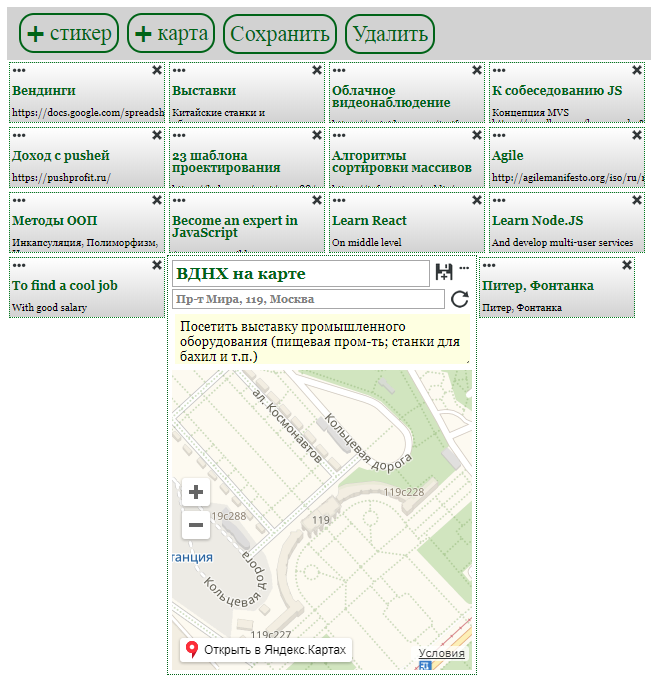
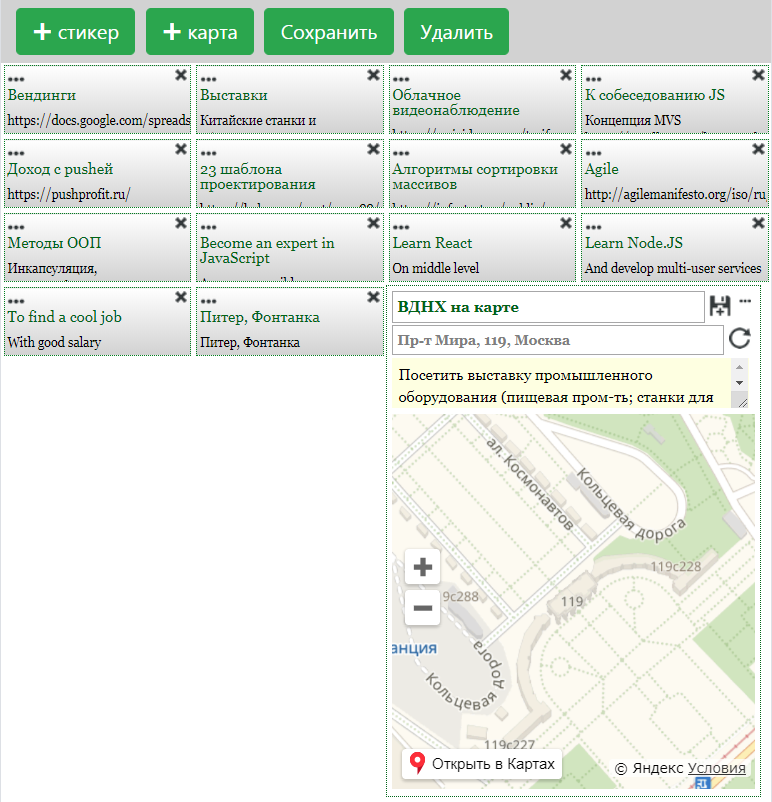
improved design of menu

diff --git a/dist/main.js b/dist/main.js
@@ -1,1 +1,1 @@
-!function(e){var t={};function n(i){if(t[i])return t[i].exports;var o=t[i]={i:i,l:!1,exports:{}};return e[i].call(o.exports,o,o.exports,n),o.l=!0,o.exports}n.m=e,n.c=t,n.d=function(e,t,i){n.o(e,t)||Object.defineProperty(e,t,{enumerable:!0,get:i})},n.r=function(e){"undefined"!=typeof Symbol&&Symbol.toStringTag&&Object.defineProperty(e,Symbol.toStringTag,{value:"Module"}),Object.defineProperty(e,"__esModule",{value:!0})},n.t=function(e,t){if(1&t&&(e=n(e)),8&t)return e;if(4&t&&"object"==typeof e&&e&&e.__esModule)return e;var i=Object.create(null);if(n.r(i),Object.defineProperty(i,"default",{enumerable:!0,value:e}),2&t&&"string"!=typeof e)for(var o in e)n.d(i,o,function(t){return e[t]}.bind(null,o));return i},n.n=function(e){var t=e&&e.__esModule?function(){return e.default}:function(){return e};return n.d(t,"a",t),t},n.o=function(e,t){return Object.prototype.hasOwnProperty.call(e,t)},n.p="",n(n.s=0)}([function(e,t,n){"use strict";function i(){let e;for(e=1;document.getElementById(e);e++);return e}function o(e,t,n,i){const o=document.createElement(e);return t&&o.classList.add(t),n&&(o.textContent=n),i&&(o.id=i),o}function a(){const e=document.createDocumentFragment(),t=document.createElement("img");t.src="img/edit_14x10.png",t.classList.add("edit"),t.setAttribute("data-action","edit"),e.appendChild(t);const n=document.createElement("img");return n.src="img/del_10.png",n.classList.add("del"),n.setAttribute("data-action","delete"),e.appendChild(n),e}function d(e){const t=document.getElementById(e);t.className="editSticker";let n=t.querySelector("h1").textContent,i=t.querySelector("p").textContent;t.innerHTML=`    \n    <img src="img/edit_10.png" class="editBig" title="Закрыть без изменений" \n    data-action="close">\n    <img src="img/save_18.png" class="editBig" title="Применить изменения" \n    data-action="ok">\n    <input type="text" style="width:250px" draggable="false" value="${n}" placeholder="Введите заголовок">\n    <br />\n    <textarea name="textArea" placeholder="Место для заметок">${i}</textarea>`,t.onclick=function(e){const o=e.target.getAttribute("data-action");"ok"==o&&(n=t.getElementsByTagName("input")[0].value,i=t.getElementsByTagName("textArea")[0].value,t.innerHTML="","editSticker"==t.className&&(t.className="newSticker"),"editMapSticker"==t.className&&(t.className="mapSticker"),t.appendChild(a()),t.innerHTML+=`<h1>${n}</h1><p>${i}</p>`),"close"==o&&(t.innerHTML="","editSticker"==t.className&&(t.className="newSticker"),"editMapSticker"==t.className&&(t.className="mapSticker"),t.appendChild(a()),t.innerHTML+=`<h1>${n}</h1><p>${i}</p>`)}}n.r(t);var s=(e,t="darkgreen",n=2e3)=>{const i=document.getElementById("inform");i.innerText=e,i.style.color=t,function(){let e=1;setTimeout(function t(){e>0&&setTimeout(t,n/10),i.style.opacity=e,e=(10*e-1)/10},100)}()};function c(e,t){!function(e){const t=e=>{let t=JSON.parse(e);if(void 0!==(t=(t=(t=t.response).GeoObjectCollection).featureMember[0]))return(t=t.GeoObject.Point).pos;s("Адрес не найден","red",3e3)};(function(e){new Promise(n=>{var i=new XMLHttpRequest;i.open("GET",e,!0),i.onload=(()=>{n(function(e){if(!e)return;const t=e.split(" "),n=+t[0],i=+t[1];ymaps.ready(function(){new ymaps.Map("map",{center:[i,n],controls:["zoomControl"],zoom:16})})}(t(i.responseText)))}),i.send()})})("https://geocode-maps.yandex.ru/1.x/?0299c42e-268e-4337-9740-e158b72d29fd&format=json&geocode="+e)}(e)}function l(e){const t=document.getElementById(e);t.className="editMapSticker";let n=t.querySelector("h1").textContent,i=t.getElementsByTagName("p")[0].textContent,o=t.getElementsByTagName("p")[1].textContent;t.innerHTML=`    \n        <img src="img/edit_10.png" class="editBig" title="Закрыть без изменений" \n        data-action="close">\n        <img src="img/save_18.png" class="editBig" title="Применить изменения" \n        data-action="ok">\n        <input type="text" style="width:250px; " draggable="false" value="${n}" placeholder="Введите название">\n        <br />\t\n        <input type="text" title="Адрес: " class="adress" draggable="false" value="${i}" placeholder="Введите адрес и нажмите обновить --\x3e">\n        <img src="img/reload_18.png" class="editBig" title="Загрузить карту" \n        data-action="reload">\n        <br />\t\n        \n        <textarea name="textArea" placeholder="Место для заметки">${o}</textarea>\n        <div id='map' class='editMap'></div>\n        `,i&&c(i),t.onclick=function(d){const s=d.target.getAttribute("data-action");"ok"==s&&(n=t.getElementsByTagName("input")[0].value,o=t.getElementsByTagName("textArea")[0].value,t.innerHTML="",t.className="mapSticker",t.appendChild(a()),t.innerHTML+=`<h1>${n}</h1><p>${o}</p>`),"close"==s&&(t.innerHTML="",t.className="mapSticker",t.appendChild(a()),t.innerHTML+=`<h1>${n}</h1><p id="adress${e}">${i}</p><p>${o}</p>`),"reload"==s&&(map.innerHTML="",c(i=t.getElementsByTagName("input")[1].value))}}class r{constructor(e="",t="",n="simple",o){this.type=n,this.name=e,this.content=t,this.id=i(),this.adress=o}create(){const e=document.getElementById("stickyNotes"),t=o("div","newSticker","",this.id),n=document.createDocumentFragment();if(n.appendChild(a(this.id)),n.appendChild(o("h1","",this.name)),"map"===this.type){const e=o("p","",this.adress);e.id=`adress${this.id}`,n.appendChild(e)}n.appendChild(o("p","",this.content)),t.appendChild(n),e.appendChild(t),document.getElementById(this.id).setAttribute("data-action","sticker")}hide(){document.getElementById(this.id).style="display: none"}show(){document.getElementById(this.id).style="display: display-block"}mini(){}full(){"map"===this.type?l(this.id):d(this.id)}move(){}setId(){}addUrl(){}}function u(){for(let e=1;localStorage.getItem(`H${e}`);e++){let t=new r(localStorage.getItem(`H${e}`),localStorage.getItem(`C${e}`));t.create(),t.show()}}function m(e){const t=document.getElementById(e);t.style.position="absolute",t.onmousemove=function(e){!function(e){t.style.left=e.pageX-t.offsetWidth/2+"px",t.style.top=e.pageY-t.offsetHeight/2+"px"}(e)},t.ondragstart=function(){return!1},t.onmouseup=function(n){t.onmousemove=null,t.onmouseup=null,t.style.zIndex=1,t.style.position="static",t.style.left=null,t.style.top=null;const o=document.elementFromPoint(n.pageX,n.pageY);!function(e,t){if(void 0===t&&(t=i()-1),e===t)return;const n=document.getElementById(e),o=document.getElementById(t);if(e<t){o.parentNode.insertBefore(n,o.nextSibling);for(let n=+e+1;n!==+t+1;n++){const e=document.getElementById(n);document.getElementById(`adress${n}`)&&(document.getElementById(`adress${n}`).id=`adress${n-1}`),e.id=n-1}document.getElementById(`adress${n.id}`)&&(document.getElementById(`adress${n.id}`).id=`adress${t}`),n.id=t}else{o.parentNode.insertBefore(n,o);for(let n=+e-1;n!==+t-1;n--){const e=document.getElementById(n);document.getElementById(`adress${n}`)&&(document.getElementById(`adress${n}`).id=`adress${n+1}`),e.id=n+1}document.getElementById(`adress${n.id}`)&&(document.getElementById(`adress${n.id}`).id=`adress${t}`),n.id=t}}(e,function(e){for(;e!=document;){if("sticker"==e.getAttribute("data-action"))return e.id;e=e.parentNode}}(o))}}document.getElementById("stickyNotes").insertAdjacentHTML("beforeend",'\n    <div id="panel" class="panel">\n        <div id="example" class="button" title="Загрузить примеры">\n        Примеры</div>\n\n        <div id="plus" class="button" title="Добавить стикер">\n        <span class="plusSign">➕&nbsp</span>стикер</div>\n\n        <div id="plusMap" class="button" title="Добавить стикер-карту">\n        <span class="plusSign">➕&nbsp</span>карта</div>\n\n        <div id="saving" class="button" title="Сохранить  всё">\n        Сохранить</div>    \n        \x3c!--\n        <div id="toServer" class="button" title="Сохранить на сервер">\n        <img src="img/toServer_32.png"></div>    \n        --\x3e\n         \n        <div id="cleaning" class="button" title="Удалить  всё">\n        Удалить</div>\n        <div id=\'inform\'></div>\n    </div>'),u(),localStorage.getItem("stickers")&&u(),function(){example.onclick=function(){!function(){const e=(e,t,n,i)=>{const o=new r(e,t,n,i);o.create(),o.show()};e("Become an expert in JavaScript","As soon as posible","newSticker"),e("Learn React","On middle level","newSticker"),e("Learn Node.JS","And develop multi-user services","newSticker"),e("To find a cool job","With good salary","newSticker"),e("ВДНХ на карте","Посетить выставку промышленного оборудования (пищевая пром-ть; станки для бахил и т.п.)","map","Пр-т Мира, 119, Москва"),e("Питер, Фонтанка","","map","Питер, Фонтанка"),document.getElementById("example").remove()}()},plus.onclick=function(){const e=new r;e.create(),e.full()},plusMap.onclick=function(){const e=new r("","","map");e.create(),e.full()},saving.onclick=function(){!function(){localStorage.clear();for(let e=1;;e++){let t=document.getElementById(e);if(0!=!t)break;localStorage.setItem(`H${e}`,t.getElementsByTagName("h1")[0].textContent),localStorage.setItem(`C${e}`,t.getElementsByTagName("p")[0].textContent)}s("Сохранено")}()},cleaning.onclick=function(){!function(){if(localStorage.getItem("H1")){const e="Удалить без возможности восстановления?",t=document.createElement("div");t.style.cssText="\n            text-align:center; padding:10px; position:fixed; \n            background-color: white; width:200px; height:70px; \n            top: 50px; left: 100px; margin-right:-100px; \n            margin-bottom:-20px; border: 1px dotted #000",t.onclick=function(e){if("Да"==e.target.value){for(let e=1;;e++){let t=document.getElementById(e);if(0!=!t)break;t.remove()}localStorage.clear(),this.parentNode.removeChild(this)}else this.parentNode.removeChild(this)};let n='style="margin: 5px; padding: 3px; font-size: 14px;"';t.innerHTML="<div>"+e+`<div><input ${n} \n        type="button" value="Да"><input ${n} type="button" value="Нет">`,document.body.appendChild(t)}else alert("Нет сохранённых стикеров, удалять нечего...")}()};const e=document.getElementById("stickyNotes");e.onclick=function(e){const t=e.target,n=t.getAttribute("data-action");"delete"==n&&function(e){document.getElementById(e).remove();for(var t=+e+1;;t++){const e=document.getElementById(t);if(0!=!e)break;e.id=t-1}}(t.parentNode.id),"edit"==n&&(document.getElementById(`adress${t.parentNode.id}`)?l(t.parentNode.id):d(t.parentNode.id))},e.addEventListener("mousedown",function(e){let t=e.target;for(;t!=document;){const e=t.getAttribute("data-action"),n=t.getAttribute("class");if("edit"==e||"delete"==e||"ok"==e||"close"==e)return;if("sticker"==e&&"editSticker"!=n&&"editMapSticker"!=n)return void(1==event.which&&m(t.id));t=t.parentNode}})}()}]);
+!function(e){var t={};function n(i){if(t[i])return t[i].exports;var o=t[i]={i:i,l:!1,exports:{}};return e[i].call(o.exports,o,o.exports,n),o.l=!0,o.exports}n.m=e,n.c=t,n.d=function(e,t,i){n.o(e,t)||Object.defineProperty(e,t,{enumerable:!0,get:i})},n.r=function(e){"undefined"!=typeof Symbol&&Symbol.toStringTag&&Object.defineProperty(e,Symbol.toStringTag,{value:"Module"}),Object.defineProperty(e,"__esModule",{value:!0})},n.t=function(e,t){if(1&t&&(e=n(e)),8&t)return e;if(4&t&&"object"==typeof e&&e&&e.__esModule)return e;var i=Object.create(null);if(n.r(i),Object.defineProperty(i,"default",{enumerable:!0,value:e}),2&t&&"string"!=typeof e)for(var o in e)n.d(i,o,function(t){return e[t]}.bind(null,o));return i},n.n=function(e){var t=e&&e.__esModule?function(){return e.default}:function(){return e};return n.d(t,"a",t),t},n.o=function(e,t){return Object.prototype.hasOwnProperty.call(e,t)},n.p="",n(n.s=0)}([function(e,t,n){"use strict";function i(){let e;for(e=1;document.getElementById(e);e++);return e}function o(e,t,n,i){const o=document.createElement(e);return t&&o.classList.add(t),n&&(o.textContent=n),i&&(o.id=i),o}function a(){const e=document.createDocumentFragment(),t=document.createElement("img");t.src="img/edit_14x10.png",t.classList.add("edit"),t.setAttribute("data-action","edit"),e.appendChild(t);const n=document.createElement("img");return n.src="img/del_10.png",n.classList.add("del"),n.setAttribute("data-action","delete"),e.appendChild(n),e}function s(e){const t=document.getElementById(e);t.className="editSticker";let n=t.querySelector("h1").textContent,i=t.querySelector("p").textContent;t.innerHTML=`    \n    <img src="img/edit_10.png" class="editBig" title="Закрыть без изменений" \n    data-action="close">\n    <img src="img/save_18.png" class="editBig" title="Применить изменения" \n    data-action="ok">\n    <input type="text" style="width:250px" draggable="false" value="${n}" placeholder="Введите заголовок">\n    <br />\n    <textarea name="textArea" placeholder="Место для заметок">${i}</textarea>`,t.onclick=function(e){const o=e.target.getAttribute("data-action");"ok"==o&&(n=t.getElementsByTagName("input")[0].value,i=t.getElementsByTagName("textArea")[0].value,t.innerHTML="","editSticker"==t.className&&(t.className="newSticker"),"editMapSticker"==t.className&&(t.className="mapSticker"),t.appendChild(a()),t.innerHTML+=`<h1>${n}</h1><p>${i}</p>`),"close"==o&&(t.innerHTML="","editSticker"==t.className&&(t.className="newSticker"),"editMapSticker"==t.className&&(t.className="mapSticker"),t.appendChild(a()),t.innerHTML+=`<h1>${n}</h1><p>${i}</p>`)}}n.r(t);var d=(e,t="darkgreen",n=2e3)=>{const i=document.getElementById("inform");i.innerText=e,i.style.color=t,function(){let e=1;setTimeout(function t(){e>0&&setTimeout(t,n/10),i.style.opacity=e,e=(10*e-1)/10},100)}()};function l(e,t){!function(e){const t=e=>{let t=JSON.parse(e);if(void 0!==(t=(t=(t=t.response).GeoObjectCollection).featureMember[0]))return(t=t.GeoObject.Point).pos;d("Адрес не найден","red",3e3)};(function(e){new Promise(n=>{var i=new XMLHttpRequest;i.open("GET",e,!0),i.onload=(()=>{n(function(e){if(!e)return;const t=e.split(" "),n=+t[0],i=+t[1];ymaps.ready(function(){new ymaps.Map("map",{center:[i,n],controls:["zoomControl"],zoom:16})})}(t(i.responseText)))}),i.send()})})("https://geocode-maps.yandex.ru/1.x/?0299c42e-268e-4337-9740-e158b72d29fd&format=json&geocode="+e)}(e)}function c(e){const t=document.getElementById(e);t.className="editMapSticker";let n=t.querySelector("h1").textContent,i=t.getElementsByTagName("p")[0].textContent,o=t.getElementsByTagName("p")[1].textContent;t.innerHTML=`    \n        <img src="img/edit_10.png" class="editBig" title="Закрыть без изменений" \n        data-action="close">\n        <img src="img/save_18.png" class="editBig" title="Применить изменения" \n        data-action="ok">\n        <input type="text" style="width:250px; " draggable="false" value="${n}" placeholder="Введите название">\n        <br />\t\n        <input type="text" title="Адрес: " class="adress" draggable="false" value="${i}" placeholder="Введите адрес и нажмите обновить --\x3e">\n        <img src="img/reload_18.png" class="editBig" title="Загрузить карту" \n        data-action="reload">\n        <br />\t\n        \n        <textarea name="textArea" placeholder="Место для заметки">${o}</textarea>\n        <div id='map' class='editMap'></div>\n        `,i&&l(i),t.onclick=function(s){const d=s.target.getAttribute("data-action");"ok"==d&&(n=t.getElementsByTagName("input")[0].value,o=t.getElementsByTagName("textArea")[0].value,t.innerHTML="",t.className="mapSticker",t.appendChild(a()),t.innerHTML+=`<h1>${n}</h1><p>${o}</p>`),"close"==d&&(t.innerHTML="",t.className="mapSticker",t.appendChild(a()),t.innerHTML+=`<h1>${n}</h1><p id="adress${e}">${i}</p><p>${o}</p>`),"reload"==d&&(map.innerHTML="",l(i=t.getElementsByTagName("input")[1].value))}}class r{constructor(e="",t="",n="simple",o){this.type=n,this.name=e,this.content=t,this.id=i(),this.adress=o}create(){const e=document.getElementById("stickyNotes"),t=o("div","newSticker","",this.id),n=document.createDocumentFragment();if(n.appendChild(a(this.id)),n.appendChild(o("h1","",this.name)),"map"===this.type){const e=o("p","",this.adress);e.id=`adress${this.id}`,n.appendChild(e)}n.appendChild(o("p","",this.content)),t.appendChild(n),e.appendChild(t),document.getElementById(this.id).setAttribute("data-action","sticker")}hide(){document.getElementById(this.id).style="display: none"}show(){document.getElementById(this.id).style="display: display-block"}mini(){}full(){"map"===this.type?c(this.id):s(this.id)}move(){}setId(){}addUrl(){}}function u(){for(let e=1;localStorage.getItem(`H${e}`);e++){let t=new r(localStorage.getItem(`H${e}`),localStorage.getItem(`C${e}`));t.create(),t.show()}}function m(e){const t=document.getElementById(e);t.style.position="absolute",t.onmousemove=function(e){!function(e){t.style.left=e.pageX-t.offsetWidth/2+"px",t.style.top=e.pageY-t.offsetHeight/2+"px"}(e)},t.ondragstart=function(){return!1},t.onmouseup=function(n){t.onmousemove=null,t.onmouseup=null,t.style.zIndex=1,t.style.position="static",t.style.left=null,t.style.top=null;const o=document.elementFromPoint(n.pageX,n.pageY);!function(e,t){if(void 0===t&&(t=i()-1),e===t)return;const n=document.getElementById(e),o=document.getElementById(t);if(e<t){o.parentNode.insertBefore(n,o.nextSibling);for(let n=+e+1;n!==+t+1;n++){const e=document.getElementById(n);document.getElementById(`adress${n}`)&&(document.getElementById(`adress${n}`).id=`adress${n-1}`),e.id=n-1}document.getElementById(`adress${n.id}`)&&(document.getElementById(`adress${n.id}`).id=`adress${t}`),n.id=t}else{o.parentNode.insertBefore(n,o);for(let n=+e-1;n!==+t-1;n--){const e=document.getElementById(n);document.getElementById(`adress${n}`)&&(document.getElementById(`adress${n}`).id=`adress${n+1}`),e.id=n+1}document.getElementById(`adress${n.id}`)&&(document.getElementById(`adress${n.id}`).id=`adress${t}`),n.id=t}}(e,function(e){for(;e!=document;){if("sticker"==e.getAttribute("data-action"))return e.id;e=e.parentNode}}(o))}}document.getElementById("stickyNotes").insertAdjacentHTML("beforeend",'\n    <div id="panel" class="panel">\n\n        <div id="example" class="button btn btn-success pull-left" title="Загрузить примеры">\n        Примеры</div>\n\n        <div id="plus" class="button btn btn-success pull-left" title="Добавить стикер">\n        <span class="plusSign">➕&nbsp</span>стикер</div>\n\n        <div id="plusMap" class="button btn btn-success pull-left" title="Добавить стикер-карту">\n        <span class="plusSign">➕&nbsp</span>карта</div>\n\n        <div id="saving" class="button btn btn-success pull-left" title="Сохранить  всё">\n        Сохранить</div>    \n \n        <div id="cleaning" class="button btn btn-success pull-left" title="Удалить  всё">\n        Удалить</div>\n        <div id=\'inform\'></div>\n    </div>'),u(),localStorage.getItem("stickers")&&u(),function(){example.onclick=function(){!function(){const e=(e,t,n,i)=>{const o=new r(e,t,n,i);o.create(),o.show()};e("Become an expert in JavaScript","As soon as posible","newSticker"),e("Learn React","On middle level","newSticker"),e("Learn Node.JS","And develop multi-user services","newSticker"),e("To find a cool job","With good salary","newSticker"),e("ВДНХ на карте","Посетить выставку промышленного оборудования (пищевая пром-ть; станки для бахил и т.п.)","map","Пр-т Мира, 119, Москва"),e("Питер, Фонтанка","","map","Питер, Фонтанка"),document.getElementById("example").remove()}()},plus.onclick=function(){const e=new r;e.create(),e.full()},plusMap.onclick=function(){const e=new r("","","map");e.create(),e.full()},saving.onclick=function(){!function(){localStorage.clear();for(let e=1;;e++){let t=document.getElementById(e);if(0!=!t)break;localStorage.setItem(`H${e}`,t.getElementsByTagName("h1")[0].textContent),localStorage.setItem(`C${e}`,t.getElementsByTagName("p")[0].textContent)}d("Сохранено")}()},cleaning.onclick=function(){!function(){if(localStorage.getItem("H1")){const e="Удалить без возможности восстановления?",t=document.createElement("div");t.style.cssText="\n            text-align:center; padding:10px; position:fixed; \n            background-color: white; width:200px; height:70px; \n            top: 50px; left: 100px; margin-right:-100px; \n            margin-bottom:-20px; border: 1px dotted #000",t.onclick=function(e){if("Да"==e.target.value){for(let e=1;;e++){let t=document.getElementById(e);if(0!=!t)break;t.remove()}localStorage.clear(),this.parentNode.removeChild(this)}else this.parentNode.removeChild(this)};let n='style="margin: 5px; padding: 3px; font-size: 14px;"';t.innerHTML="<div>"+e+`<div><input ${n} \n        type="button" value="Да"><input ${n} type="button" value="Нет">`,document.body.appendChild(t)}else alert("Нет сохранённых стикеров, удалять нечего...")}()};const e=document.getElementById("stickyNotes");e.onclick=function(e){const t=e.target,n=t.getAttribute("data-action");"delete"==n&&function(e){document.getElementById(e).remove();for(var t=+e+1;;t++){const e=document.getElementById(t);if(0!=!e)break;e.id=t-1}}(t.parentNode.id),"edit"==n&&(document.getElementById(`adress${t.parentNode.id}`)?c(t.parentNode.id):s(t.parentNode.id))},e.addEventListener("mousedown",function(e){let t=e.target;for(;t!=document;){const e=t.getAttribute("data-action"),n=t.getAttribute("class");if("edit"==e||"delete"==e||"ok"==e||"close"==e)return;if("sticker"==e&&"editSticker"!=n&&"editMapSticker"!=n)return void(1==event.which&&m(t.id));t=t.parentNode}})}()}]);

diff --git a/src/allStickers/panel.js b/src/allStickers/panel.js
@@ -1,23 +1,20 @@
 export default function panel() {
     let panelContents = `
     <div id="panel" class="panel">
-        <div id="example" class="button" title="Загрузить примеры">
+
+        <div id="example" class="button btn btn-success pull-left" title="Загрузить примеры">
         Примеры</div>
 
-        <div id="plus" class="button" title="Добавить стикер">
+        <div id="plus" class="button btn btn-success pull-left" title="Добавить стикер">
         <span class="plusSign">➕&nbsp</span>стикер</div>
 
-        <div id="plusMap" class="button" title="Добавить стикер-карту">
+        <div id="plusMap" class="button btn btn-success pull-left" title="Добавить стикер-карту">
         <span class="plusSign">➕&nbsp</span>карта</div>
 
-        <div id="saving" class="button" title="Сохранить  всё">
+        <div id="saving" class="button btn btn-success pull-left" title="Сохранить  всё">
         Сохранить</div>    
-        <!--
-        <div id="toServer" class="button" title="Сохранить на сервер">
-        <img src="img/toServer_32.png"></div>    
-        -->
-         
-        <div id="cleaning" class="button" title="Удалить  всё">
+ 
+        <div id="cleaning" class="button btn btn-success pull-left" title="Удалить  всё">
         Удалить</div>
         <div id='inform'></div>
     </div>`;

diff --git a/src/view/menu.css b/src/view/menu.css
@@ -20,13 +20,14 @@
 }
 
 .plusSign {
-    font-size: 19px;
+    font-size: 16px;
     padding: 0px;
     margin: 0px;
 }
 
 .button:hover {
     background-color: white;
+    margin: 3px 0px;
 }
 
 #inform {

diff --git a/README.md b/README.md
@@ -5,5 +5,5 @@
 
 Текущая версия: https://aparin.github.io/stickyNotes/
 
-![](https://raw.githubusercontent.com/Aparin/stickyNotes/master/img/screenshort.png)
+![](https://raw.githubusercontent.com/Aparin/stickyNotes/master/src/img/screenshort.png)
 
